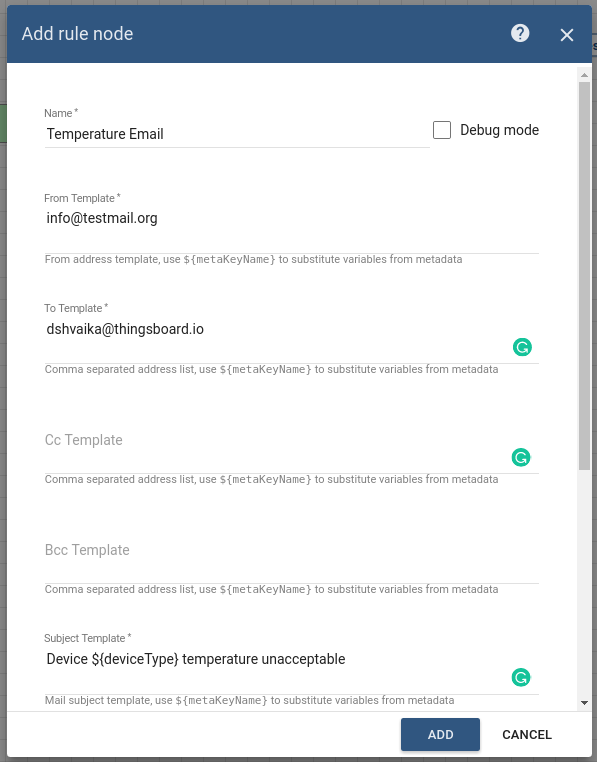
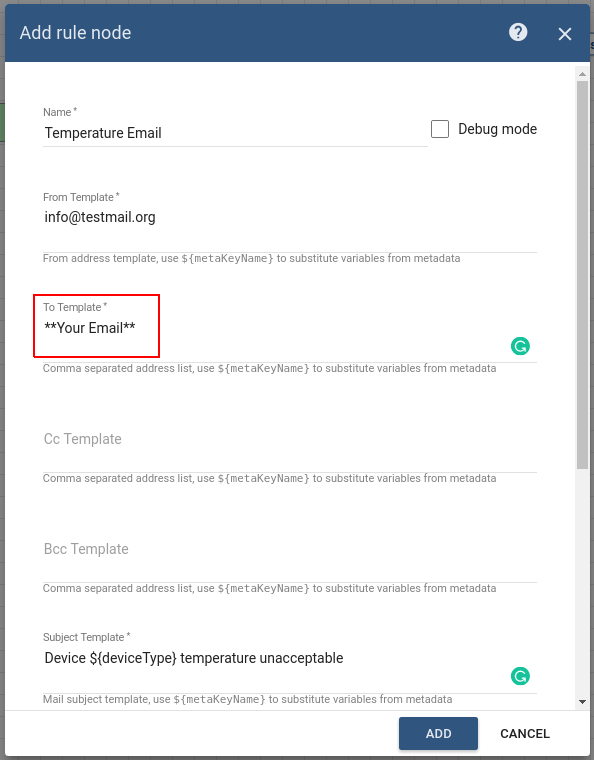
refactoring send-email tutorial

diff --git a/docs/user-guide/rule-engine-2-0/tutorials/send-email.md b/docs/user-guide/rule-engine-2-0/tutorials/send-email.md
@@ -14,7 +14,7 @@ This Tutorial is to show you how to send an Email to the user using the Rule Eng
 ## Use case
 
 
-In this tutorial we will implement the use case from the tutorial: [create & clear alarms v2](/docs/user-guide/rule-engine-2-0/tutorials/create-clear-alarms-v2/#use-case):
+In this tutorial we will implement the use case from the tutorial: [create & clear alarms](/docs/user-guide/rule-engine-2-0/tutorials/create-clear-alarms/#use-case):
 
 Let's assume your device is using DHT22 sensor to collect and push temperature readings to ThingsBoard. 
 DHT22 sensor is good for -40 to 80°C temperature readings.We want to generate Alarms if temperature is out of good range and send the email when the alarm was created.
@@ -48,8 +48,9 @@ In this section, we explain the purpose of each node in this tutorial:
 
 # Configure Rule Chains
 
-In this tutorial, we modified Rule Chain **Create & Clear Alarms** from tutorial [create & clear alarms v2](/docs/user-guide/rule-engine-2-0/tutorials/create-clear-alarms-v2) by adding nodes that was described above in the section [Message flow](/docs/user-guide/rule-engine-2-0/tutorials/send-email-v2/#message-flow)<br>
- and renamed this rule chain to: **Create/Clear Alarm & Send Email**
+In this tutorial, we used Rule Chains from [create & clear alarms](/docs/user-guide/rule-engine-2-0/tutorials/create-clear-alarms) tutorial.
+We modified Rule Chain **Create & Clear Alarms** by adding nodes that was described above in the section [Message flow](/docs/user-guide/rule-engine-2-0/tutorials/send-email/#message-flow)<br>
+ and renamed this rule chain to: **Create/Clear Alarm & Send Email**.
 
 <br/>The following screenshots show how the above Rule Chains should look like:
  
@@ -63,17 +64,10 @@ In this tutorial, we modified Rule Chain **Create & Clear Alarms** from tutorial
 
 <br/> 
 
-Download the attached json [**file**](/docs/user-guide/rule-engine-2-0/tutorials/resources/root_rule_chain_email.json) for the **Root Rule Chain**. Don't forget to mark this rule chain as **root**.    
+Download the attached json [**file**](/docs/user-guide/rule-engine-2-0/tutorials/resources/create_clear_alarm___send_email.json) for the **Create/Clear Alarm & Send Email** rule chain.
 
+The following section shows you how to modify this rule chain from scratch.
 <br/> 
-  
-![image](/images/user-guide/rule-engine-2-0/tutorials/email v2/make-root.png)
-
-Also, you need to modify **Create/Clear Alarm & Send Email** Rule Chain or you can download the attached json [**file**](/docs/user-guide/rule-engine-2-0/tutorials/resources/create_clear_alarm___send_email.json) for this Chain and import it.
-<br/>
-<br/>
-
-The following section shows you how to modify it.
  
 #### Modify **Create/Clear Alarm & Send Email**
 
@@ -90,7 +84,7 @@ In this rule chain, you will create 3 nodes as it will be explained in the follo
  metadata.temperature = msg.temperature;
  return {msg: msg, metadata: metadata, msgType: msgType};{% endhighlight %}
       
-- Enter the Name field as **Put Temperature in Metadata**.  
+- Enter the Name field as **Add temperature to metadata**.  
   
 ![image](/images/user-guide/rule-engine-2-0/tutorials/email v2/transform-script.png)
    
@@ -130,23 +124,29 @@ In this rule chain, you will create 3 nodes as it will be explained in the follo
         </tr>
      </tbody>
   </table>
-
-in this rule node in section **to template**: was set email **dshvaika@thingsboard.io** but you need to change it to your email address.
      
-
 ![image](/images/user-guide/rule-engine-2-0/tutorials/email v2/to-email.png)
 
 ###### Node C: **Send Email**
 - Add the **Send Email** node and connect it to the **To Email** node with a relation type **Success**. <br>
   This node will actually send email from the inbound message using the system SMTP settings.<br>
-  The instructions of how to configure these settings will be explained in the section below.
-  
+
 - Enter the Name field as **SendGrid SMTP**.
 
-- mark **Use system SMTP settings**.
+- If you don't have access the system administrator account you need make your own SMTP configuration for this node.  
+
+- otherwise, mark a field **Use system SMTP settings**.
+
+
+ Please note that at Demo Server was already configured SendGrid provider as system SMTP. <br/>
+
+The instructions of how to configure these settings will be explained in the section below.
+
+<br/>
 
 ![image](/images/user-guide/rule-engine-2-0/tutorials/email v2/send-email.png)
 
+<br/>
 
 Chain configuration is finished and we need to save it.
 
@@ -160,15 +160,14 @@ In this section, we explain to you how  to configure system SMTP settings and tr
    
   ![image](/images/user-guide/rule-engine-2-0/tutorials/email v2/sendgrid-config.png)
   
+If you have permission to log in to ThingsBoard, with using system administrator account you can customize SMTP settings and send Test Email.
+ - For the default system administrator account:
 
- - Log in to ThingsBoard, using  system administrator account. For default system administrator account:
-
-    - login - **sysadmin@thingsboard.org**.
-    - password - **sysadmin**.
+   - login - **sysadmin@thingsboard.org**.
+   - password - **sysadmin**.
     
-- Go to **System Settings** -> **Outgoing Mail**  and configure **Outgoing Mail Settings**
- 
- The following screenshot shows you how to do it:
+- Go to **System Settings** -> **Outgoing Mail**  and configure **Outgoing Mail Settings** as described in the following screenshot:
+
  
 ![image](/images/user-guide/rule-engine-2-0/tutorials/email v2/test-email.png)
 
@@ -177,6 +176,8 @@ In this section, we explain to you how  to configure system SMTP settings and tr
 
 If the System SMTP configure all right: you will see a pop-up message as shown in the screenshot above.<br>
 System SMTP settings configuration is finished. Don’t forget to press button **Save**.
+
+If you can't access to the account of the System administrator you could configured SMTP settings right in the node but you can't be checked that email was successfully sent.
 
 <br/>
 
@@ -207,7 +208,7 @@ Also, you can see the more information about how to:
  -  Send an email to the Customer of the Device.
  -  Add additional data to the email body from the incoming message.
 
-Please refer to the link under the **See Also** section to see how to do this.
+Please refer to the first link under the **See Also** section to see how to do this.
 
 <br/>
 <br/>
@@ -215,6 +216,8 @@ Please refer to the link under the **See Also** section to see how to do this.
 # See Also
 
 - [Send email to customer](/docs/user-guide/rule-engine-2-0/tutorials/send-email/) tutorial.
+
+- []().
 
 
 <br/>
